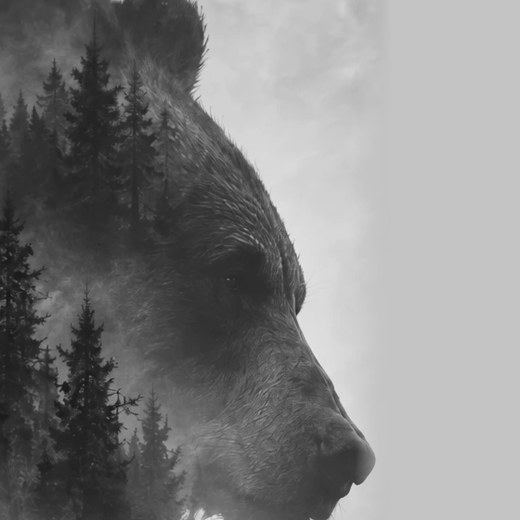
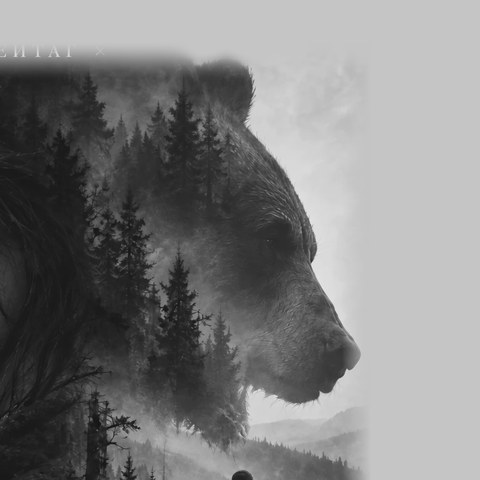
Сайт автора, телефон: кружок с медведем меньше (190px), медведь целиком, без букв обложки
Claude-Session: https://claude.ai/code/session_01Uu83MB45nkJX1tXJZPePva

diff --git a/site/site.css b/site/site.css
@@ -304,7 +304,7 @@ body::before{content:"";position:fixed;inset:0 0 auto;height:env(safe-area-inset
   .hero h1{font-size:clamp(30px,9vw,40px)}
   .hero.has-art .hero-in{grid-template-columns:minmax(0,1fr);padding-bottom:28px}
   /* на телефоне — маленький дымчатый кружок с мордой медведя над заголовком */
-  .hero-mist{justify-self:center;width:min(78vw,300px);aspect-ratio:1/1;margin:8px 0 0;border-radius:50%;
+  .hero-mist{justify-self:center;width:min(50vw,190px);aspect-ratio:1/1;margin:8px 0 0;border-radius:50%;
     -webkit-mask-image:radial-gradient(circle,#000 52%,rgba(0,0,0,.5) 63%,transparent 71%);mask-image:radial-gradient(circle,#000 52%,rgba(0,0,0,.5) 63%,transparent 71%)}
   .hero-mist img{display:none}
   .hero-mist img.sm{display:block;width:100%;height:100%;object-fit:cover}

diff --git a/AGENTS.md b/AGENTS.md
@@ -41,7 +41,7 @@
   или другая картинка `photo`. Картинка 1300×1000: только голова медведя (ели ВНУТРИ силуэта — как на обложке, можно) из обложки
   в полном разрешении, мягко выходит из лёгкого тумана; дымка обложки переведена в белый (смешивание multiply с фоном).
   Текст и медведь — одна композиция по центру (сетка 560px + 460px, без зазора); картинка — в той же сетке, не absolute. У `.hero-in` нет z-index — иначе multiply не смешивается с фоном и виден белый прямоугольник.
-  На телефоне вместо большой картинки — дымчатый кружок ~300px под текстом и кнопками, по центру (`hero-bear-sm.jpg`, морда с глазом и носом). Отвергнуто: любые нарисованные ели вокруг («сраные ели»), повторяющиеся куски обложки, люди/река справа, картинка до края экрана.
+  На телефоне вместо большой картинки — дымчатый кружок ~190px под текстом и кнопками, по центру; медведь в нём целиком, «издалека» (крупный план она отвергла) (`hero-bear-sm.jpg`, морда с глазом и носом). Отвергнуто: любые нарисованные ели вокруг («сраные ели»), повторяющиеся куски обложки, люди/река справа, картинка до края экрана.
   Читателю не показываем главы и авторские листы — только статус и возраст. Бегущая строка скрыта.
   Внизу каждой страницы — **подписка с подарком** (`subscribeBox`: почта + галочка согласия → Firestore `site_subs`, создавать
   может любой, читать — только владелица; сразу после подписки — кнопка «Скачать» по `giftUrl`). Настройки и список адресов
